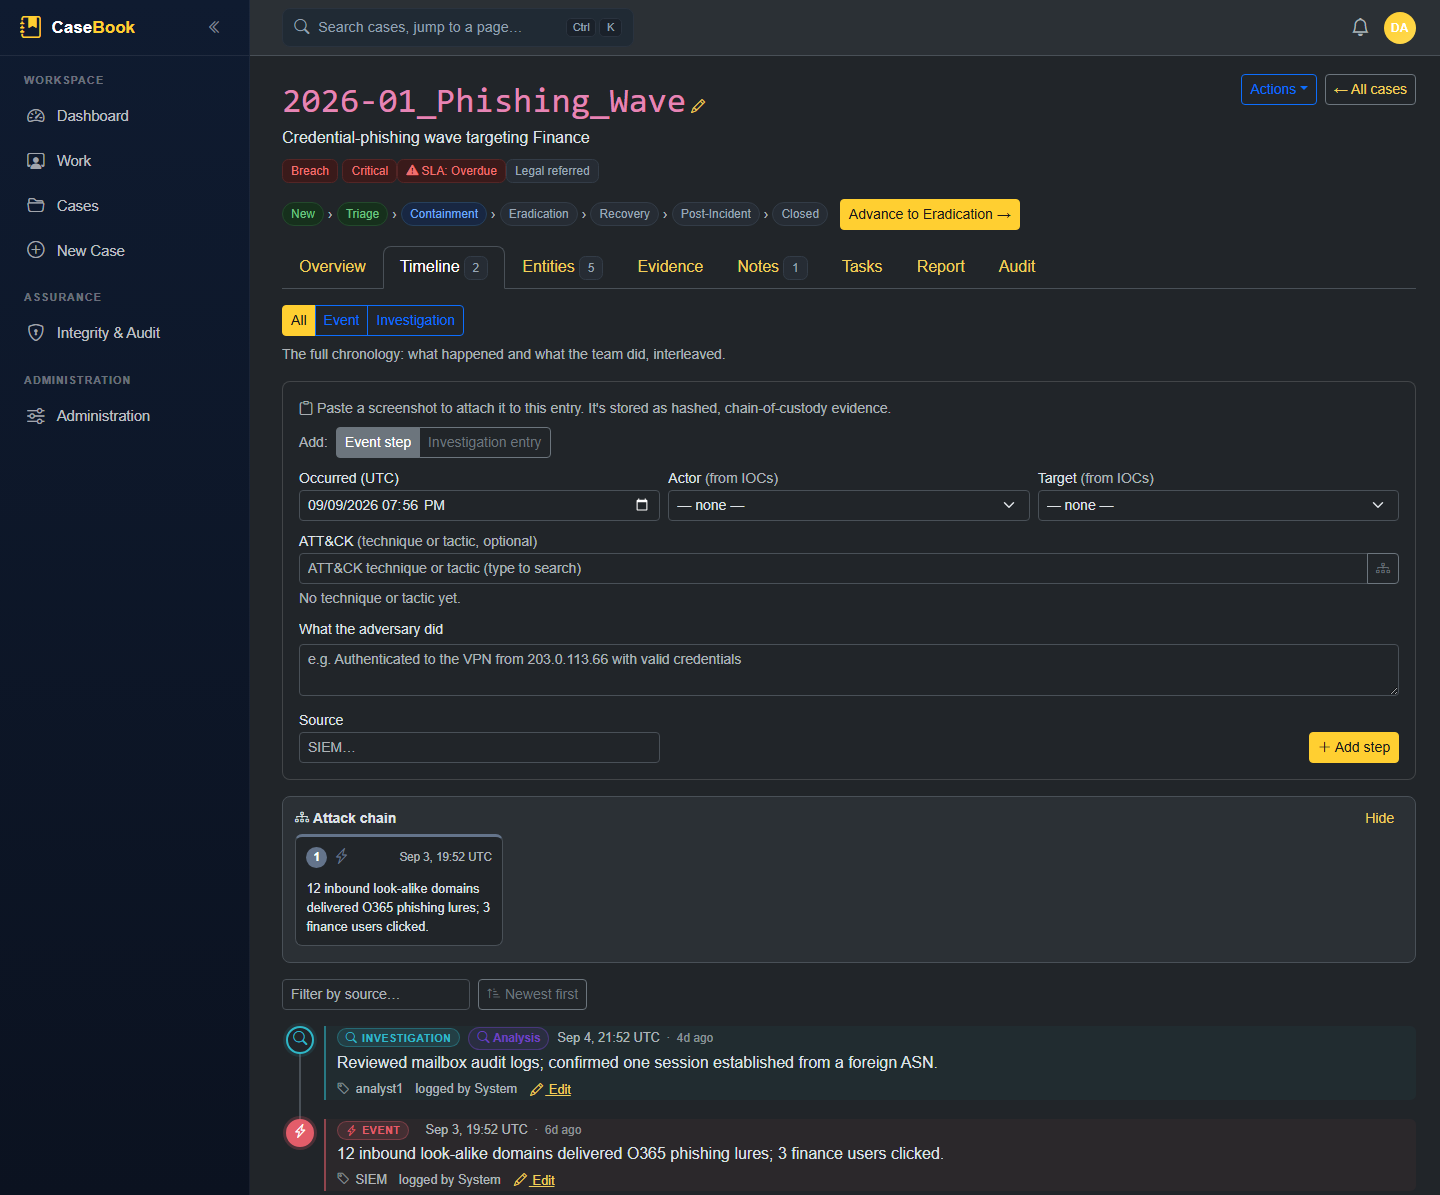
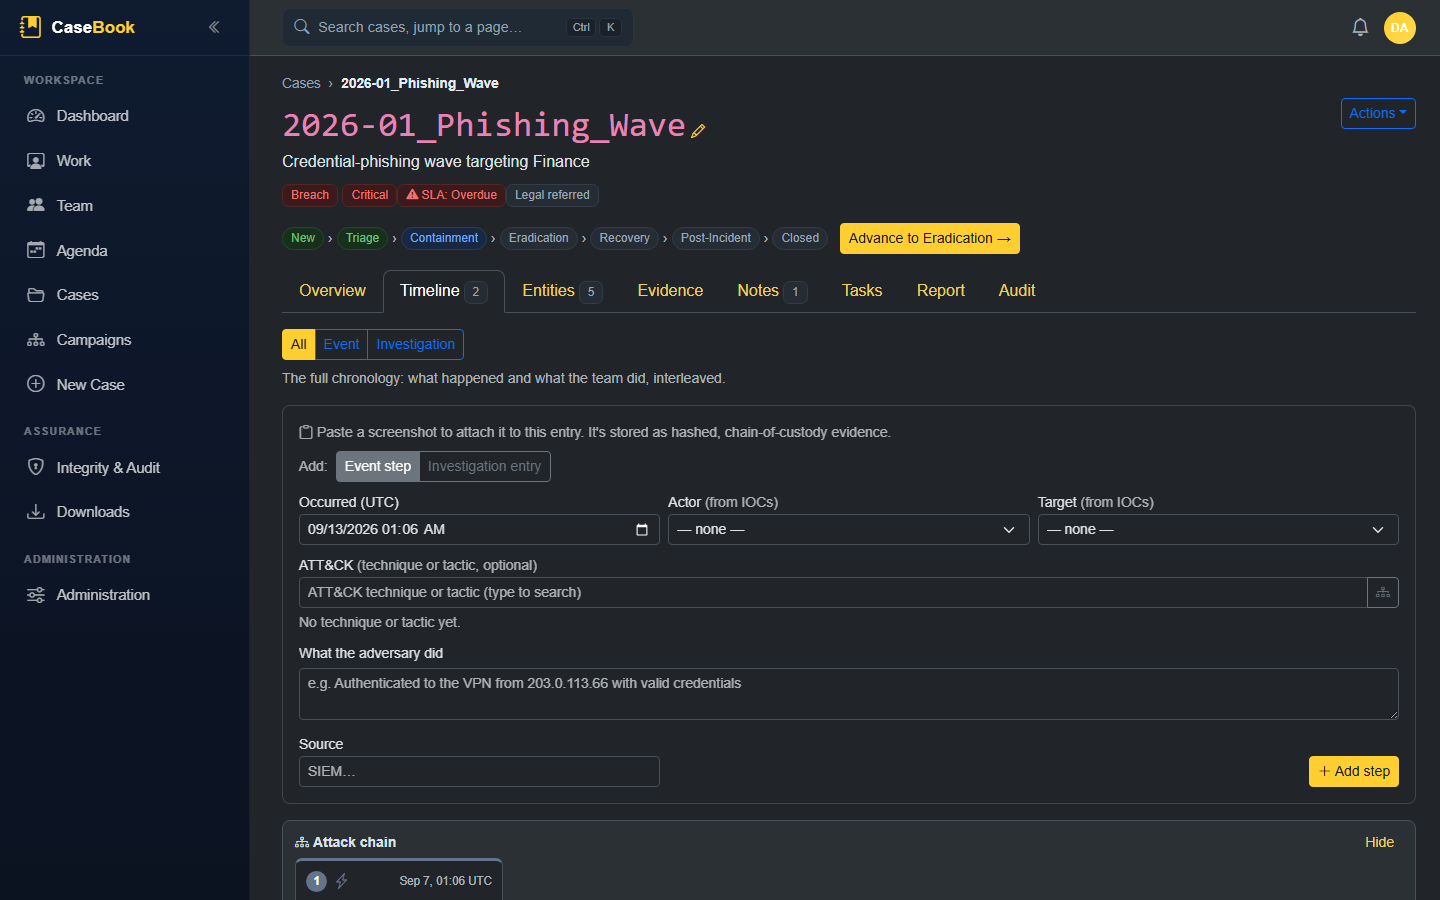
docs: refresh README screenshots + add a reusable capture tool (H-10)
All 14 docs/screenshots/*.png regenerated from the seeded demo data —
dark theme, 1440x900 (dashboard full-page), dev-auth — so they reflect
the current UI (breadcrumbs, the Team and Downloads nav entries, the
reworked tabs, etc.).

New tools/screenshots/capture.mjs (+ README): a dependency-free headless-
Chrome CDP driver that regenerates the set consistently. It resolves the
demo case/campaign ids at runtime (robust to reseeds), sets the dark
theme, waits per-shot for readiness (e.g. the vis-network canvas) and
runs small pre-capture steps (e.g. opening the report preview), then
writes each PNG. Run the app on :5103 with a fresh dev DB, then
`node tools/screenshots/capture.mjs`.

DevDataSeeder: link the two hand-authored breaches as one campaign
(PartOfCampaign) in SeedHistoricalDemoAsync, so the Campaigns page and
the cross-case rollup are populated out of the box and the campaign
screenshot is reproducible. Kept out of SeedAsync, so the SeedAsync-based
tests are unaffected (380 unit + 229 integration still green).

diff --git a/src/IncidentManager.Infrastructure/Persistence/DevDataSeeder.cs b/src/IncidentManager.Infrastructure/Persistence/DevDataSeeder.cs
@@ -502,5 +502,22 @@ public static class DevDataSeeder
                 });
             await db.SaveChangesAsync(ct);
         }
+
+        // A demo campaign (E-29): link the two hand-authored breaches as part of the same wave, so the
+        // Campaigns page and the cross-case rollup are populated out of the box (and the README screenshot
+        // is reproducible). Kept here rather than in SeedAsync so tests that seed the three base cases
+        // directly still see no links. Idempotent: only added when no PartOfCampaign link exists yet.
+        var phishing = await db.Cases.FirstOrDefaultAsync(c => c.CaseNumber.StartsWith("2026-01"), ct);
+        var vendor = await db.Cases.FirstOrDefaultAsync(c => c.CaseNumber.StartsWith("2026-02"), ct);
+        if (phishing is not null && vendor is not null
+            && !await db.CaseLinks.AnyAsync(l => l.Type == CaseLinkType.PartOfCampaign, ct))
+        {
+            db.CaseLinks.Add(new CaseLink
+            {
+                CaseId = phishing.Id, RelatedCaseId = vendor.Id, Type = CaseLinkType.PartOfCampaign,
+                Description = "Worked together as one breach response.", CreatedBy = actor, CreatedAtUtc = now
+            });
+            await db.SaveChangesAsync(ct);
+        }
     }
 }

diff --git a/tools/screenshots/README.md b/tools/screenshots/README.md
@@ -1,0 +1,43 @@
+# README screenshot capture (H-10)
+
+`capture.mjs` regenerates the screenshots in `docs/screenshots/` consistently — one viewport (1440×900,
+dashboard captured full-page), **dark theme**, dev-auth (all roles), against the **seeded demo data**. It
+drives headless Chrome over the DevTools Protocol using only Node's built-in `fetch` + `WebSocket`
+(Node 18+), so there are **no dependencies to install**.
+
+## Run
+
+1. Start the app locally on `http://localhost:5103` with a **freshly-seeded** dev database (so the shots
+   show clean demo data, not your working state):
+
+   ```bash
+   # optional but recommended for pristine demo data — reseeds on next start:
+   rm src/IncidentManager.Web/App_Data/incidentmanager.db
+   dotnet run --project src/IncidentManager.Web
+   ```
+
+2. In another shell, from the repo root:
+
+   ```bash
+   node tools/screenshots/capture.mjs
+   ```
+
+The PNGs are written straight into `docs/screenshots/`. Review the diff before committing.
+
+## Options (env vars)
+
+| Var        | Default                     | Purpose |
+|------------|-----------------------------|---------|
+| `BASE_URL` | `http://localhost:5103`     | Where the app is running |
+| `OUT_DIR`  | `docs/screenshots`          | Output directory (relative to repo root) |
+| `CHROME`   | auto-detected               | Path to `chrome.exe` / `chrome` (falls back to Edge on Windows) |
+| `ONLY`     | *(all)*                     | Comma-separated shot names, e.g. `ONLY=dashboard,timeline` |
+
+## How it works / maintenance
+
+- Case- and campaign-scoped shots resolve their ids **at runtime** by reading `/cases?q=Phishing` and
+  `/campaigns`, so the tool keeps working after a reseed assigns new GUIDs.
+- Each shot is a manifest entry in `capture.mjs` (`SHOTS`): `path` (may contain `{caseId}` /
+  `{campaignId}`), an optional `ready` CSS selector to wait for, an optional `before` snippet to run just
+  before capture (e.g. opening the report preview), a `settle` delay, and `fullPage`.
+- If you add a screenshot to the README, add a matching entry here and rerun.
